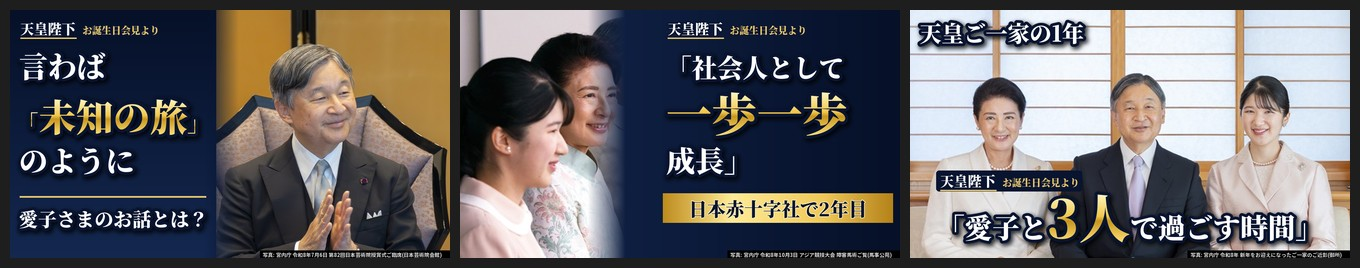
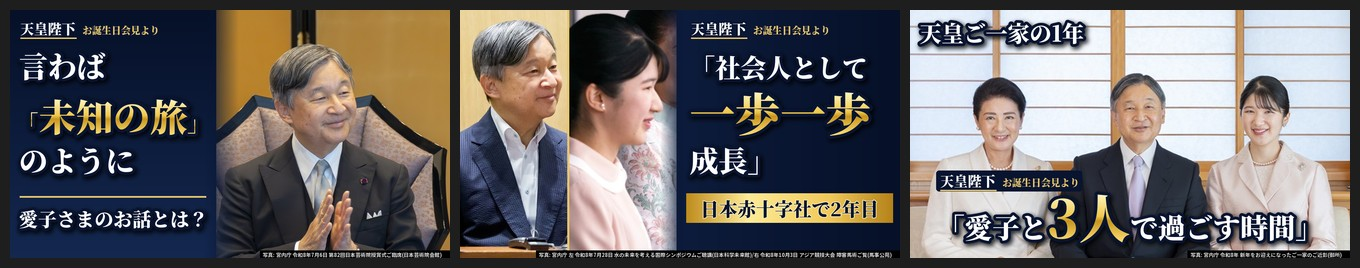
R1 表紙Bに陛下を入れて作り直し・表紙ルール: 題名の人物は必ず表紙に(荒木指示)
Claude-Session: https://claude.ai/code/session_01BJaPieHBuTRAAQkfULpzEX

Changed region(s): [[0.3397, 0.0299, 0.6485, 0.9851]]

diff --git a/projects/KB-20261125-05/thumb/make_thumbs.py b/projects/KB-20261125-05/thumb/make_thumbs.py
@@ -2,7 +2,7 @@
 python3 projects/KB-20261125-05/thumb/make_thumbs.py で thumb_A.png・thumb_B.png・thumb_C.png(1280×720)と
 3枚を縮小して並べた一覧 abc_overview.jpg を書き出す。
 
-写真は宮内庁(行事の場面・撮影者・提供者の表記なし・長辺1000px・確認方法キャプション。2026-11-25 A・Bを差し替え)。切り抜き・拡大縮小のみ(左右反転もしない)。
+写真は宮内庁(行事の場面・撮影者・提供者の表記なし・長辺1000px・確認方法キャプション。2026-11-25 A・Bを差し替え、Bは同日 2枚並びに作り直し)。切り抜き・拡大縮小のみ(左右反転もしない)。
 過去の全 thumb.yaml の写真(取得元URL)と重ならないこと、dHash で過去の表紙の写真と別物であることを確かめた。
 かぎかっこ内は令和8年2月19日 お誕生日の記者会見(宮内庁掲載の全文)の一部を一字一句(facts.md F9・F10・F16)。
 誰の言葉か分かるよう、引用のそばに小さく「天皇陛下」と出典「お誕生日会見より」(文字の数に入れない)。
@@ -10,8 +10,10 @@ python3 projects/KB-20261125-05/thumb/make_thumbs.py で thumb_A.png・thumb_B.p
 3枚で写真・構図・人物の左右・タイトルの位置を変えた(荒木指示 2026-11-25「構図が全部一緒ではABテストにならない」)。
   A(題名A・陛下のお言葉)= 文字 左4.7割・写真 右5.3割(天皇陛下お一人 A158 令和8年7月6日 第82回日本芸術院授賞式・金色の背景の前で笑顔で拍手)。
       タイトルは「左」(横書き): 言わば/「未知の旅」(金・最大)/のように ＋ 細い金の線の下に 愛子さまのお話とは？  2か所・23字
-  B(題名B・社会人として一歩一歩成長・日赤)= 写真 左・文字 右(Aと左右を逆に)。A159 令和8年10月3日 アジア競技大会 障害馬術ご覧から
-      愛子さま・皇后陛下のお二方だけを切り抜く(皇族方以外の5名は入れない。右端に陛下の髪と上着が少し入る)。
+  B(題名B・社会人として一歩一歩成長・日赤)= 写真2枚並び 左・文字 右(Aと左右を逆に)。題名Bは陛下が愛子さまを語られた話なので
+      お二人がはっきり写るように(荒木指摘 2026-11-25「表紙Bに陛下の画像がない」)。左=天皇陛下お一人 A160(令和8年7月28日
+      水の未来を考える国際シンポジウムご聴講・口を閉じた笑顔。左右の隣席の方は切り抜きで外す)、右=愛子さまお一人 A159(令和8年10月3日
+      アジア競技大会 障害馬術ご覧から愛子さまのお顔中心に切り抜き。皇族方以外は入れない。右端に皇后陛下が少し入る)。お顔の大きさをそろえる。
       タイトルは「右」(横書き3行): 「社会人として/一歩一歩(金・最大)/成長」＋金の帯「日本赤十字社で2年目」  2か所・22字
   C(題名C・ご一家)= 写真1枚いっぱい(3名・寄り・帯なし)。令和8年 新年のご一家のご近影 A012(陛下が中央・左 雅子さま・右 愛子さま)。
       タイトルは「下」(横書き1行): 「愛子と3人で過ごす時間」(金の大きな「3人」)。左上に 天皇ご一家の1年  2か所・19字
@@ -104,22 +106,31 @@ def make_A(out):
         raise SystemExit(f"{out}: お顔が文字と重なるか見切れています")
 
 
-# ---------------- B: 写真 左・文字 右(愛子さま・皇后陛下)・タイトルは右 ----------------
+# ---------------- B: 写真2枚並び 左(左=天皇陛下お一人・右=愛子さまお一人)・文字 右 ----------------
 def make_B(out):
-    # A159(1000×666)令和8年10月3日 アジア競技大会 障害馬術ご覧。写すのは元の写真の x295〜535・y60〜420 だけ(2倍)。
-    # 左の男性(x〜200)・左奥の男性2名(x〜290)・サングラスの男性(x570〜)・右の男性は入らない。
-    # 右端に天皇陛下の髪と上着の一部が少し入る(皇族方)。お顔は検出器が拾わないため手で指定(元の写真のpx):
-    # 愛子さま 中心(400,240)・高さ約130/皇后陛下 中心(490,180)・高さ約110
-    PW = 480
-    S = 2.0
+    # 題名Bは「陛下が愛子さまをどう語られたか」なので、陛下と愛子さまのお二人がはっきり写るように(荒木指摘 2026-11-25)。
+    # お顔の大きさをそろえる: 目から顎までの長さ(元の写真で 陛下 約120px・愛子さま 約65px)が表紙でどちらも約130px に
+    # なるよう、focus の顔の高さを 陛下 165・愛子さま 89(=165×65/120)とし、表紙での顔の高さ FH を同じにする。
+    # お顔は検出器が拾わないため手で指定(元の写真のpx)。
+    #  左 A160(1000×666)令和8年7月28日 水の未来を考える国際シンポジウムご聴講。陛下のお顔 中心(525,200)。
+    #     写すのは元の写真の x約355〜641・y約3〜663 だけ(左端 x〜145・右端 x860〜 の隣席の方は入らない)。
+    #  右 A159(1000×666)令和8年10月3日 アジア競技大会 障害馬術ご覧。愛子さまのお顔 中心(405,245)。
+    #     写すのは元の写真の x約317〜472・y約124〜480 だけ(左の男性 x〜200・左奥の男性 x〜290 は入らない)。
+    #     右端に皇后陛下のお顔の端が少し入り、その上に文字側へのグラデーションがかかる。
+    FH = 180
+    PW = 312             # 1枚の幅(2枚で 0〜630)
+    GAP = 6              # 2枚の間の金の細い線
     im = Image.new("RGB", (W, H), NAVY)
-    ph = place(A + "A159.jpg", PW, H, ((400 - 295) * S, (240 - 60) * S), 130 * S, (400 / 1000, 240 / 666, 130 / 666))
-    im.paste(ph, (0, 0))
-    faces = [place.last_face,
-             ((490 - 295) * S - 110 * S / 2, (180 - 60) * S - 110 * S / 2, 110 * S, 110 * S)]
-    fade = grad(W, H, [(0, (0,) * 3), (0.29, (0,) * 3), (0.375, (255,) * 3), (1, (255,) * 3)], horizontal=True).convert("L")
+    p1 = place(A + "A160.jpg", PW, H, (185, 215), FH, (525 / 1000, 200 / 666, 165 / 666)); f1 = place.last_face
+    p2 = place(A + "A159.jpg", PW, H, (177, 245), FH, (405 / 1000, 245 / 666, 89 / 666)); f2 = place.last_face
+    X2 = PW + GAP
+    im.paste(p1, (0, 0))
+    im.paste(p2, (X2, 0))
+    ImageDraw.Draw(im).rectangle((PW, 0, X2 - 1, H), fill=SRC_GOLD)
+    faces = [f1, (f2[0] + X2, f2[1], f2[2], f2[3])]
+    fade = grad(W, H, [(0, (0,) * 3), (0.455, (0,) * 3), (0.51, (255,) * 3), (1, (255,) * 3)], horizontal=True).convert("L")
     im = Image.composite(grad(W, H, [(0, (20, 40, 80)), (1, (6, 16, 40))], horizontal=True), im, fade)
-    X = 600
+    X = 668
     wb = who_tag(im, X + 4, 70)
     b1 = line(im, X, 196, [("「社会人として", 74, "white")])
     b2 = line(im, X, 352, [("一歩一歩", 132, "gold")])
@@ -128,11 +139,11 @@ def make_B(out):
     gold_band(im, band, "日本赤十字社で2年目", 54)
     tboxes = [wb, union([b1, b2, b3]), band]
     for tb in tboxes:
-        if tb[0] < 560 or tb[2] > W - 8:
+        if tb[0] < 640 or tb[2] > W - 8:
             raise SystemExit(f"{out}: 文字が写真の側か画面の外にはみ出しています {tb}")
-    credit(im, "写真: 宮内庁 令和8年10月3日 アジア競技大会 障害馬術ご覧(馬事公苑)", tboxes, right=CREDIT_RIGHT)
+    credit(im, "写真: 宮内庁 左 令和8年7月28日 水の未来を考える国際シンポジウムご聴講(日本科学未来館)/右 令和8年10月3日 アジア競技大会 障害馬術ご覧(馬事公苑)", tboxes, right=CREDIT_RIGHT)
     im.save(out)
-    print(out, "名前", wb, "引用", tboxes[1], "金の帯", band)
+    print(out, "名前", wb, "引用", tboxes[1], "金の帯", band, "お顔", [tuple(int(v) for v in f) for f in faces])
     if not check_faces(out, faces, tboxes):
         raise SystemExit(f"{out}: お顔が文字と重なるか見切れています")
 
